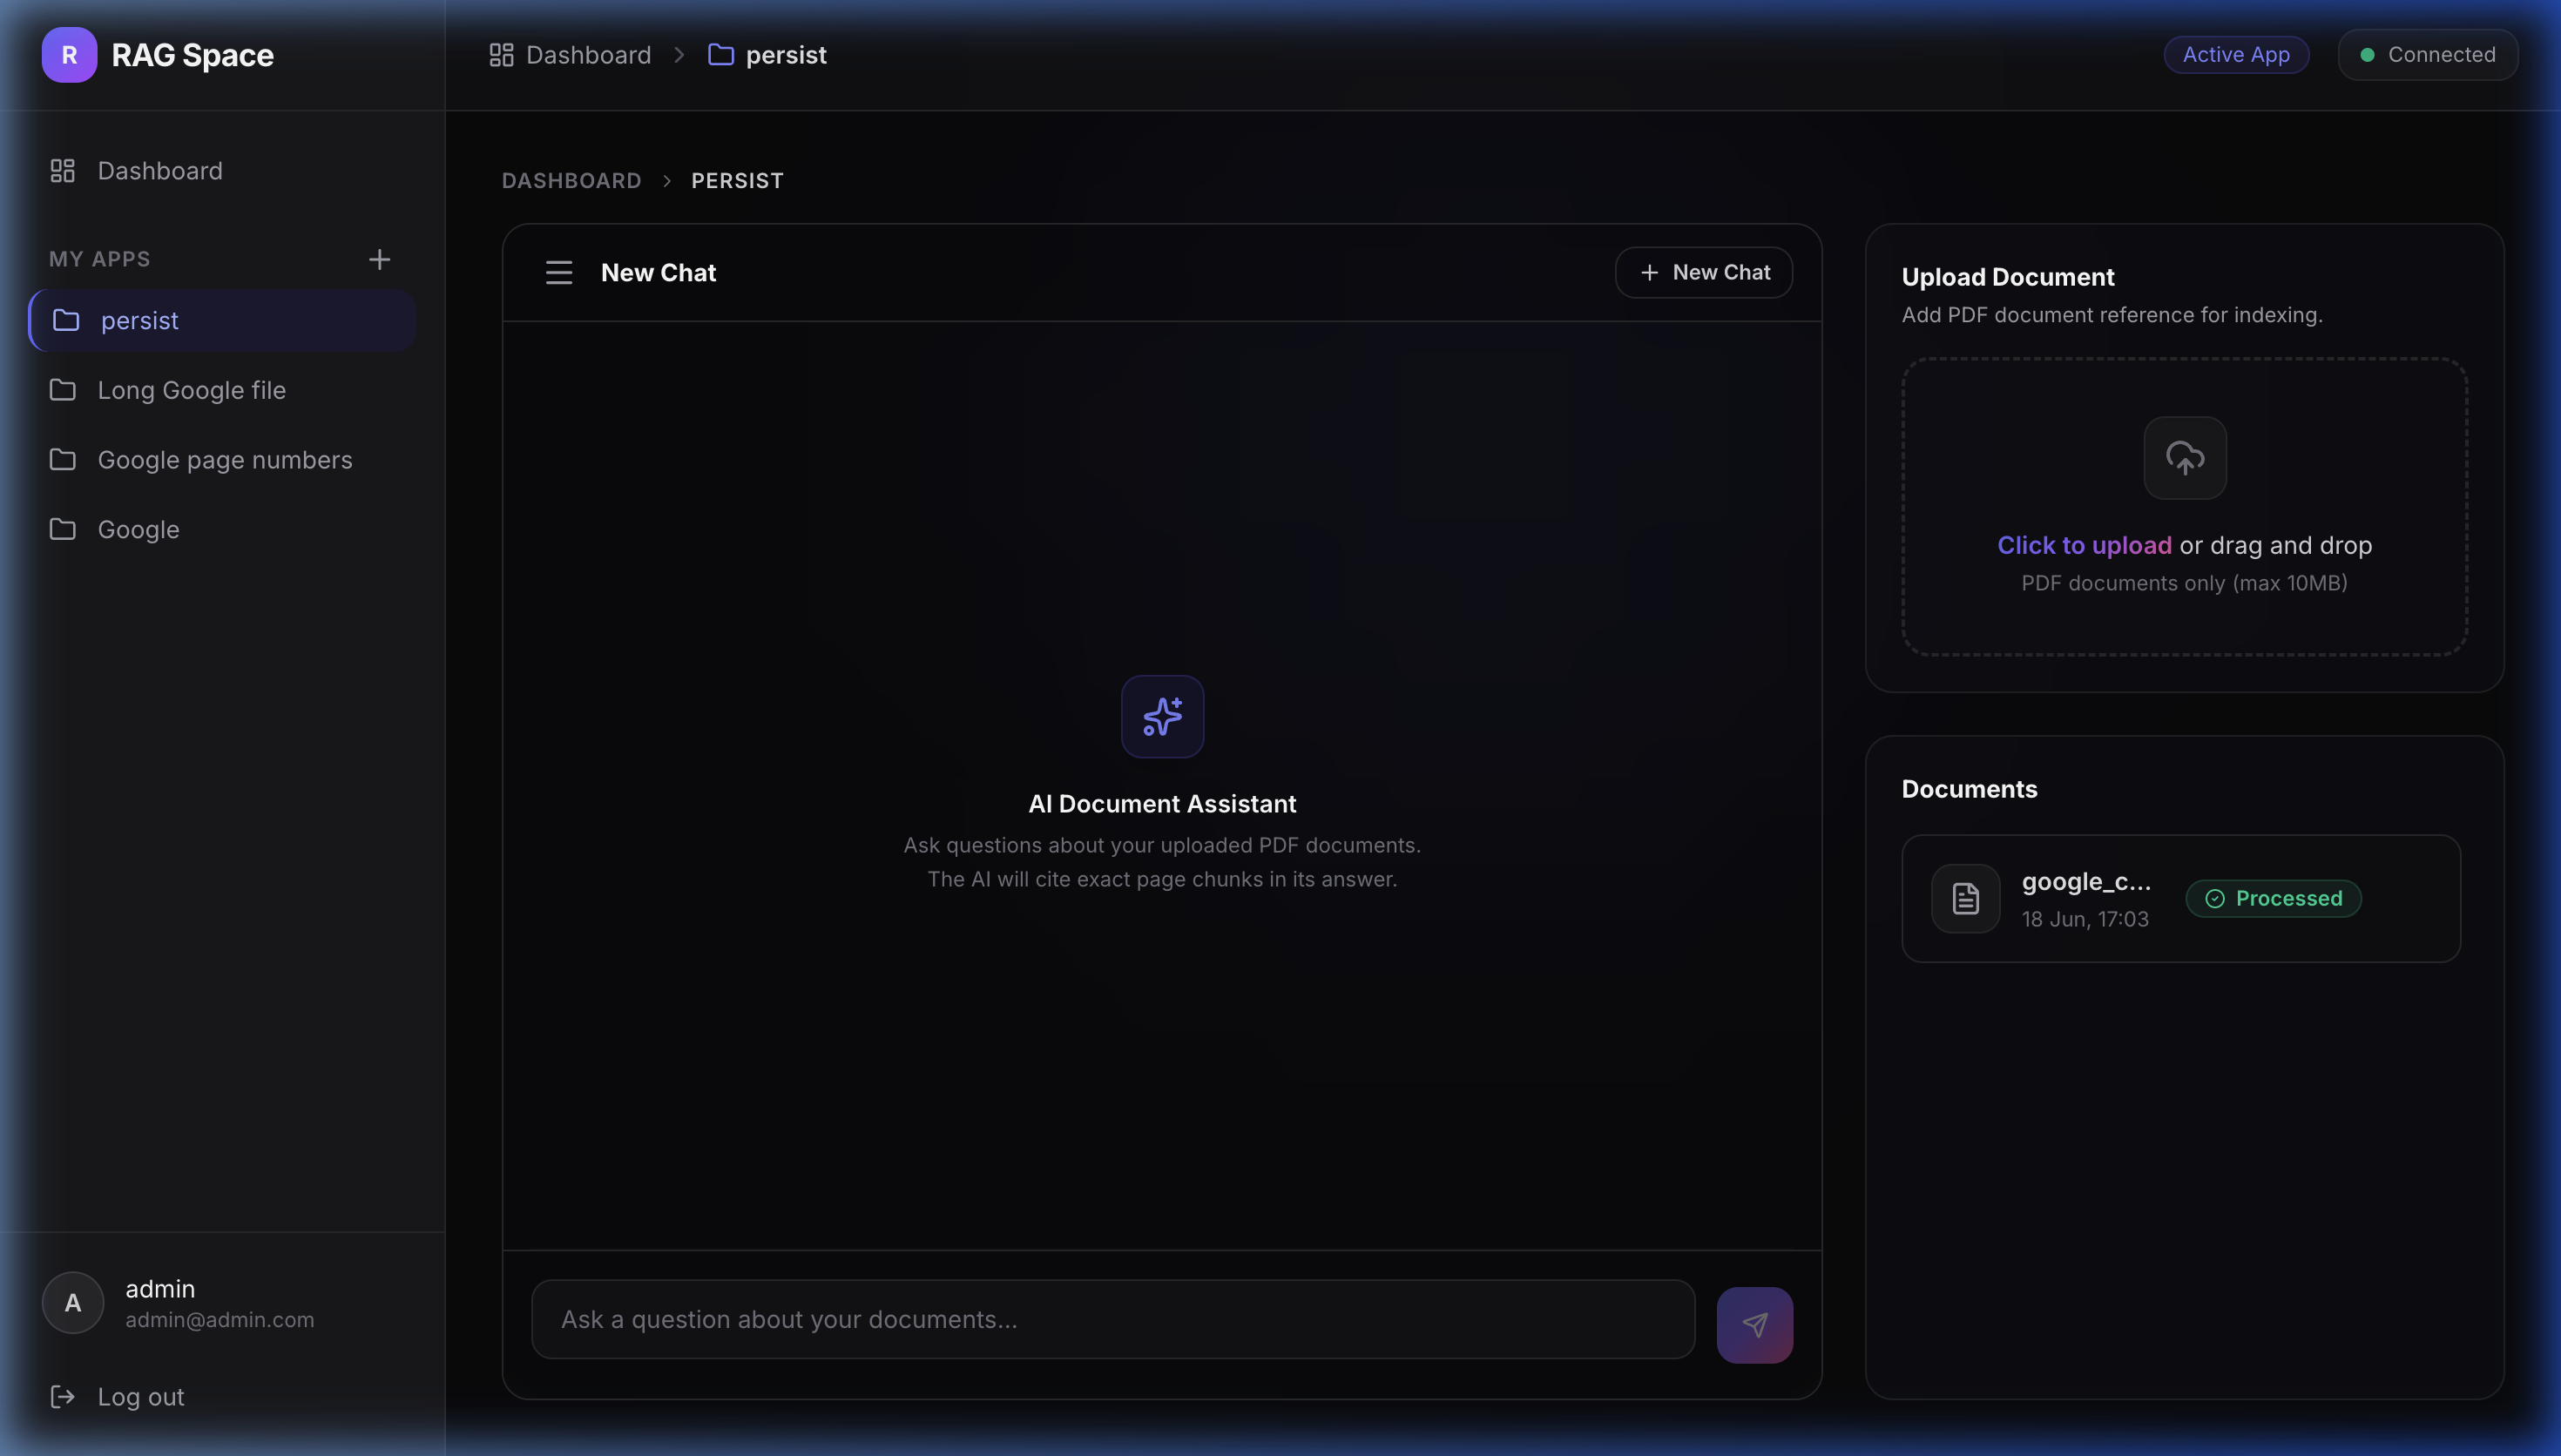
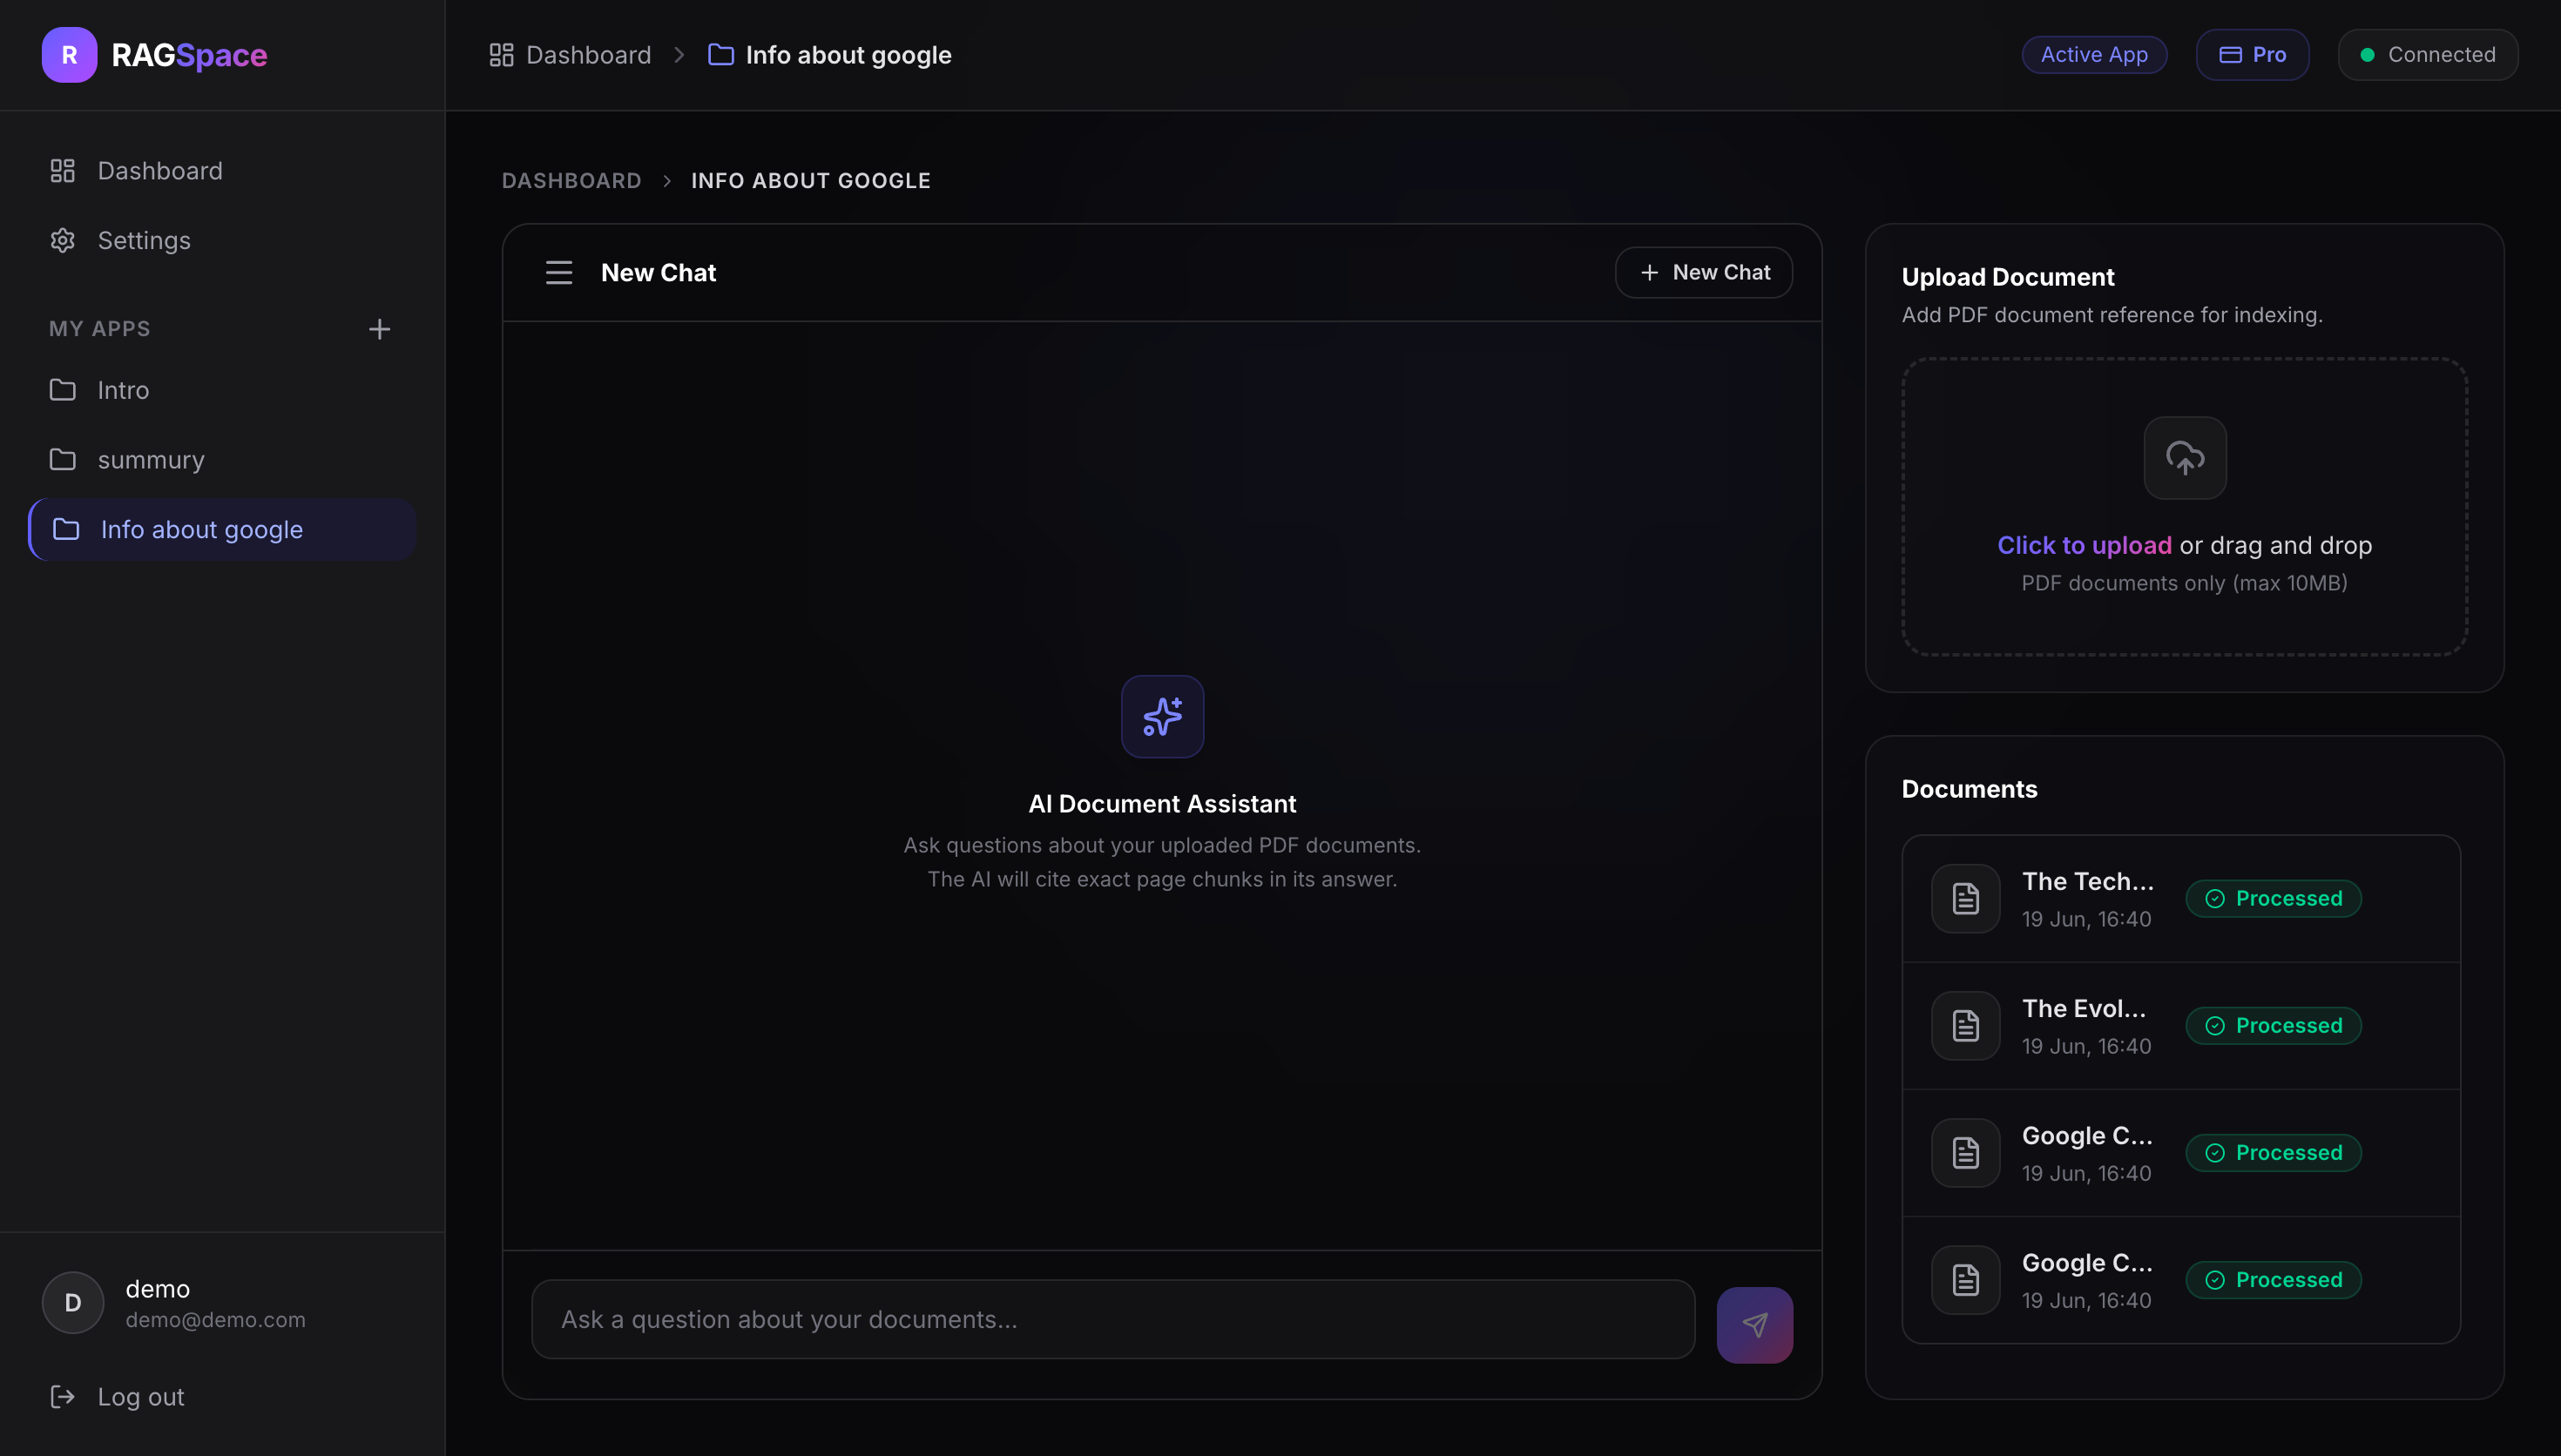
Fix: SEO for ragspace

diff --git a/index.html b/index.html
@@ -6,6 +6,31 @@
     <meta name="viewport" content="width=device-width, initial-scale=1.0" />
     <meta name="color-scheme" content="dark" />
     <title>RAG Space - AI Document Intelligence</title>
+    
+    <!-- Primary SEO Metadata -->
+    <meta name="description" content="A state-of-the-art SaaS workspace to upload reference files, index embeddings automatically, ask questions with exact citations, and manage thread histories in a spacious interface." />
+    <meta name="keywords" content="RAG, AI Document Intelligence, Retrieval-Augmented Generation, vector embeddings, PDF chunking, Qdrant indexing, context-aware chat, document search, private document AI" />
+    <meta name="author" content="RAG Space Inc." />
+    <meta name="robots" content="index, follow" />
+    <link rel="canonical" href="https://ragspace.io/" />
+
+    <!-- Open Graph / Facebook -->
+    <meta property="og:type" content="website" />
+    <meta property="og:url" content="https://ragspace.io/" />
+    <meta property="og:title" content="RAG Space - AI Document Intelligence" />
+    <meta property="og:description" content="Interact with your documents, seamlessly. Upload PDFs, generate semantic embeddings automatically, and ask questions with verified source citations." />
+    <meta property="og:image" content="https://ragspace.io/og-image.png" />
+    <meta property="og:image:width" content="1200" />
+    <meta property="og:image:height" content="630" />
+    <meta property="og:site_name" content="RAG Space" />
+
+    <!-- Twitter -->
+    <meta name="twitter:card" content="summary_large_image" />
+    <meta name="twitter:url" content="https://ragspace.io/" />
+    <meta name="twitter:title" content="RAG Space - AI Document Intelligence" />
+    <meta name="twitter:description" content="Interact with your documents, seamlessly. Upload PDFs, generate semantic embeddings automatically, and ask questions with verified source citations." />
+    <meta name="twitter:image" content="https://ragspace.io/og-image.png" />
+
     <!-- Modern Typography Google Fonts -->
     <link rel="preconnect" href="https://fonts.googleapis.com" />
     <link rel="preconnect" href="https://fonts.gstatic.com" crossorigin />